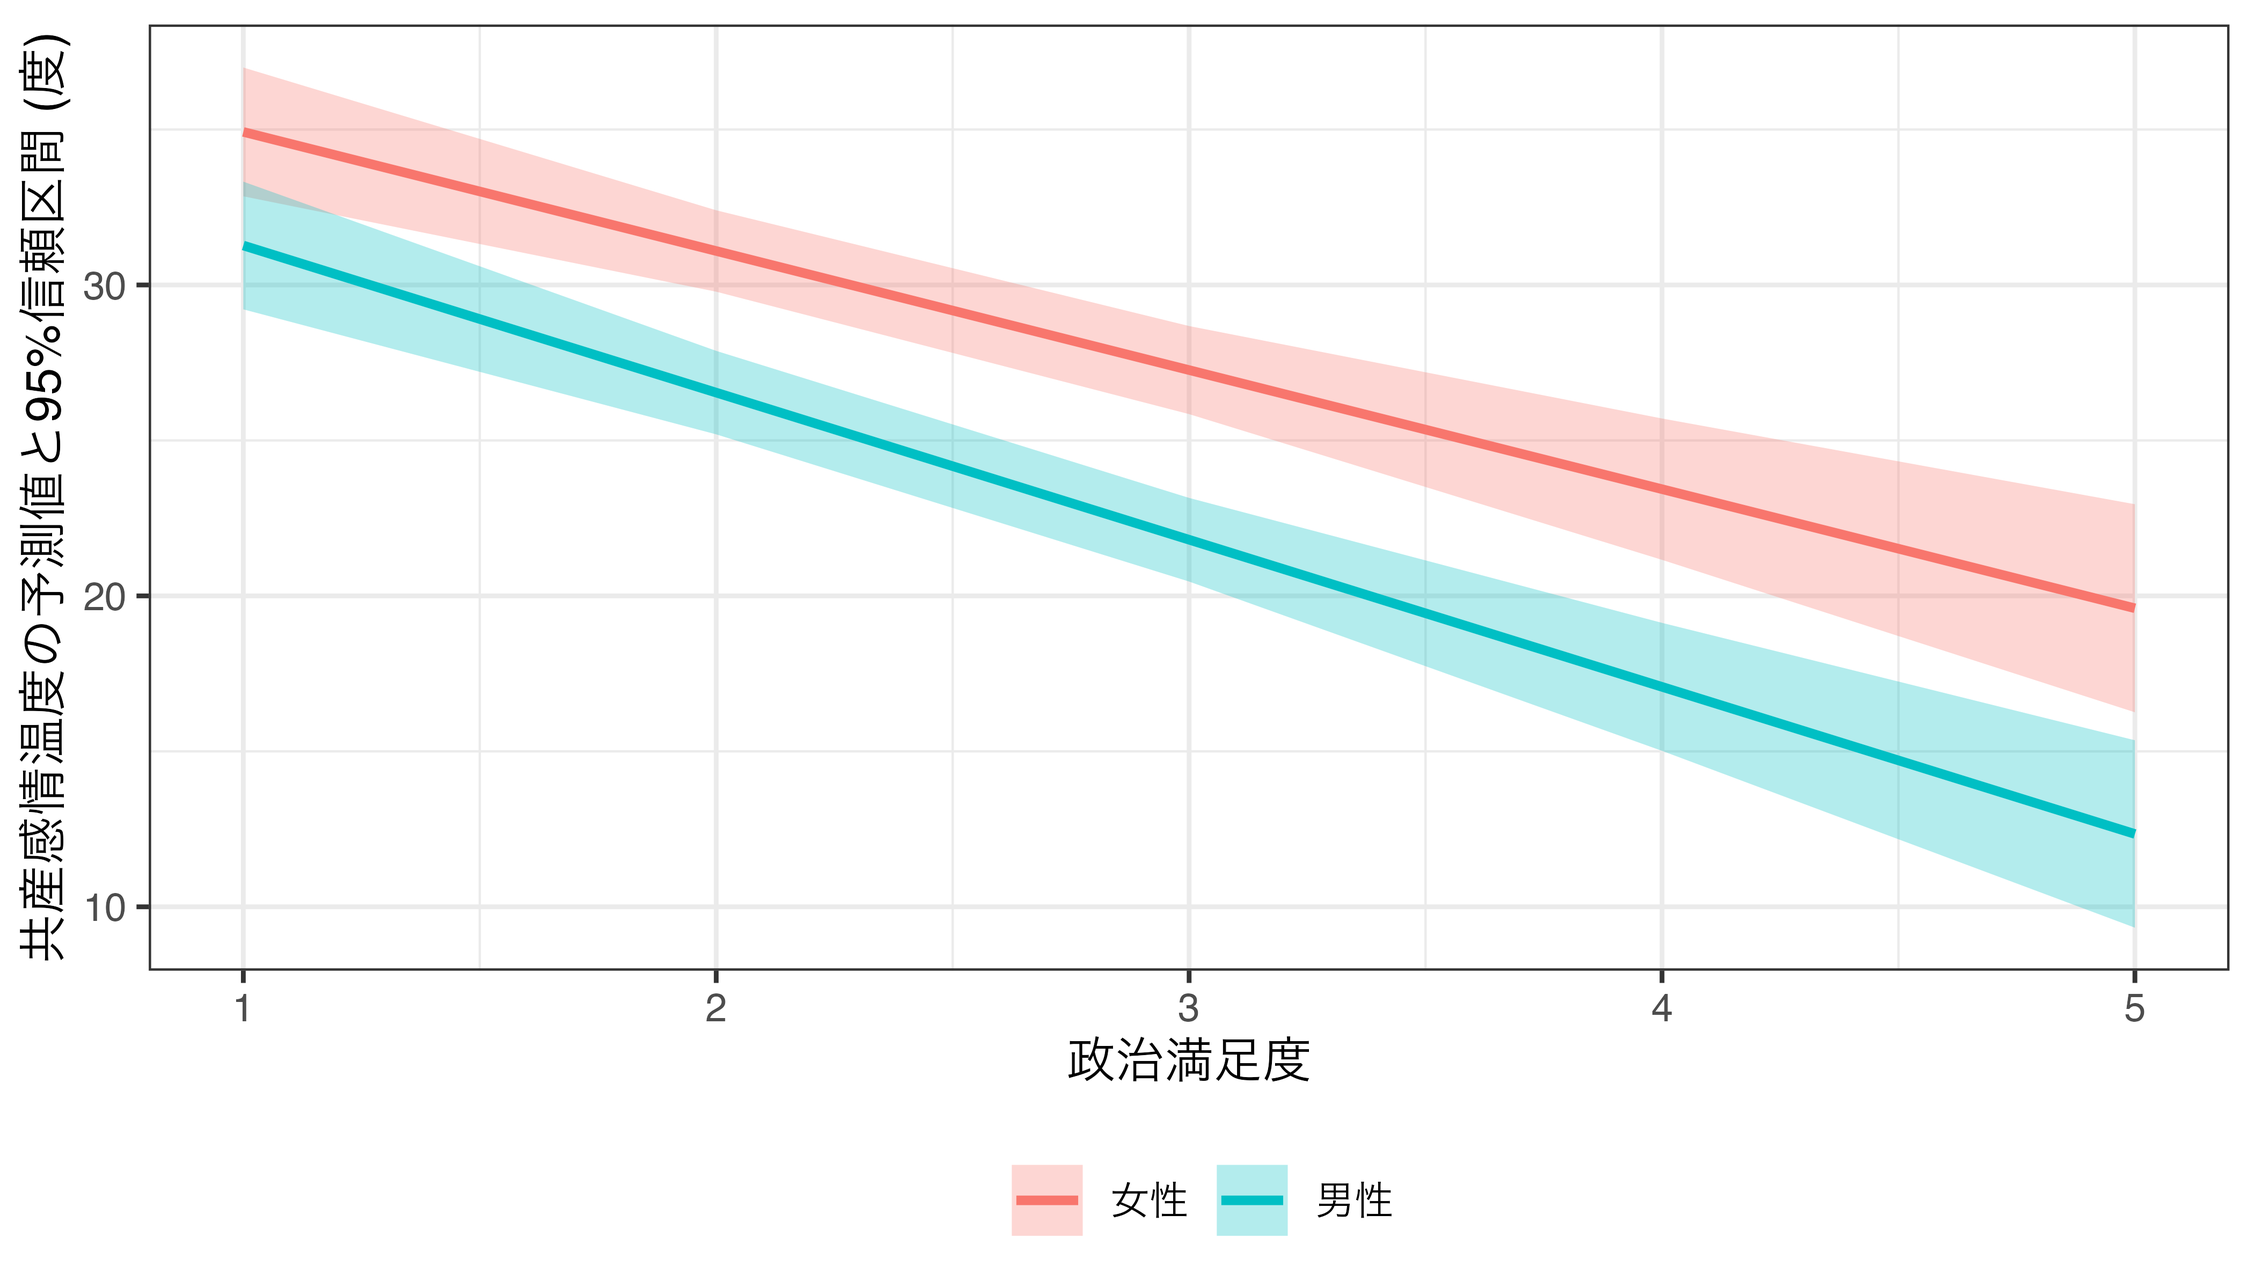
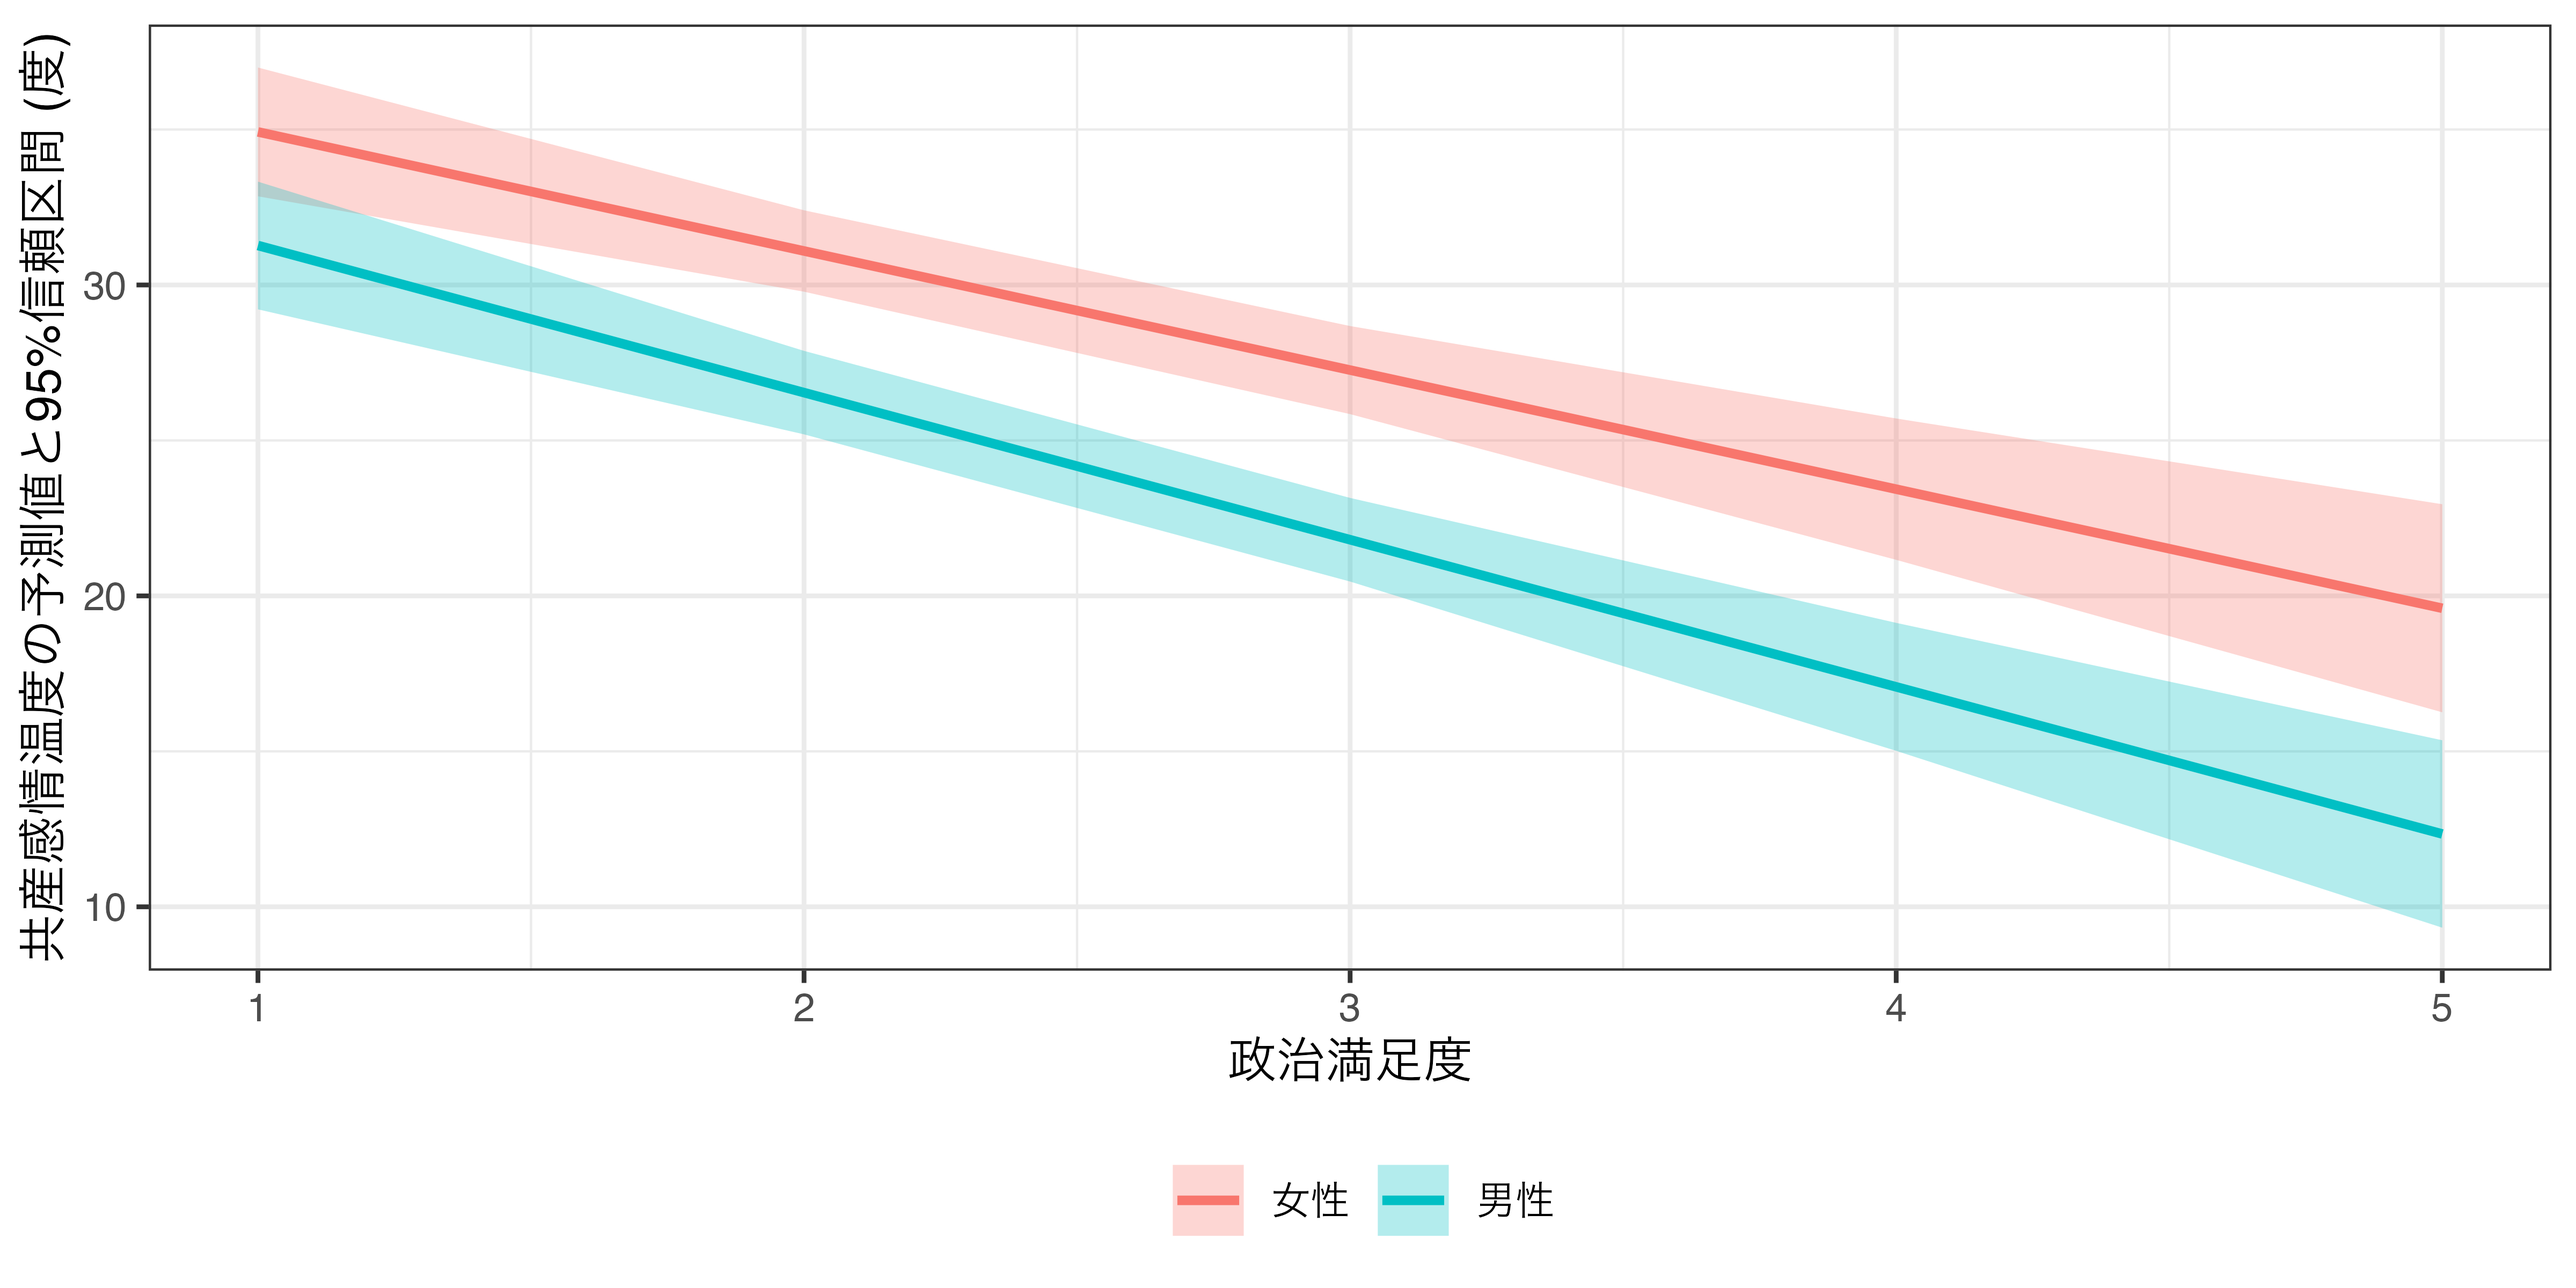
no message

diff --git a/docs/slides/macro/interaction.html b/docs/slides/macro/interaction.html
@@ -1837,7 +1837,7 @@ N: 3000
 <div class="cell-output-display">
 <div class="quarto-figure quarto-figure-center">
 <figure>
-<p><img data-src="interaction_files/figure-revealjs/unnamed-chunk-12-1.png" width="2100"></p>
+<p><img data-src="interaction_files/figure-revealjs/unnamed-chunk-12-1.png" width="2400"></p>
 </figure>
 </div>
 </div>
@@ -1864,7 +1864,7 @@ N: 3000
 <div class="cell-output-display">
 <div class="quarto-figure quarto-figure-center">
 <figure>
-<p><img data-src="interaction_files/figure-revealjs/unnamed-chunk-14-1.png" width="2100"></p>
+<p><img data-src="interaction_files/figure-revealjs/unnamed-chunk-14-1.png" width="2400"></p>
 </figure>
 </div>
 </div>
@@ -1912,7 +1912,7 @@ N: 3000
 <div class="cell-output-display">
 <div class="quarto-figure quarto-figure-center">
 <figure>
-<p><img data-src="interaction_files/figure-revealjs/unnamed-chunk-15-1.png" width="2100"></p>
+<p><img data-src="interaction_files/figure-revealjs/unnamed-chunk-15-1.png" width="2400"></p>
 </figure>
 </div>
 </div>

diff --git a/docs/site_libs/quarto-html/quarto-syntax-highlighting.css b/docs/site_libs/quarto-html/quarto-syntax-highlighting.css
@@ -33,7 +33,7 @@
 
 /* other quarto variables */
 :root {
-  --quarto-font-monospace: "Fira Mono", monospace;
+  --quarto-font-monospace: SFMono-Regular, Menlo, Monaco, Consolas, "Liberation Mono", "Courier New", monospace;
 }
 
 pre > code.sourceCode > span {
